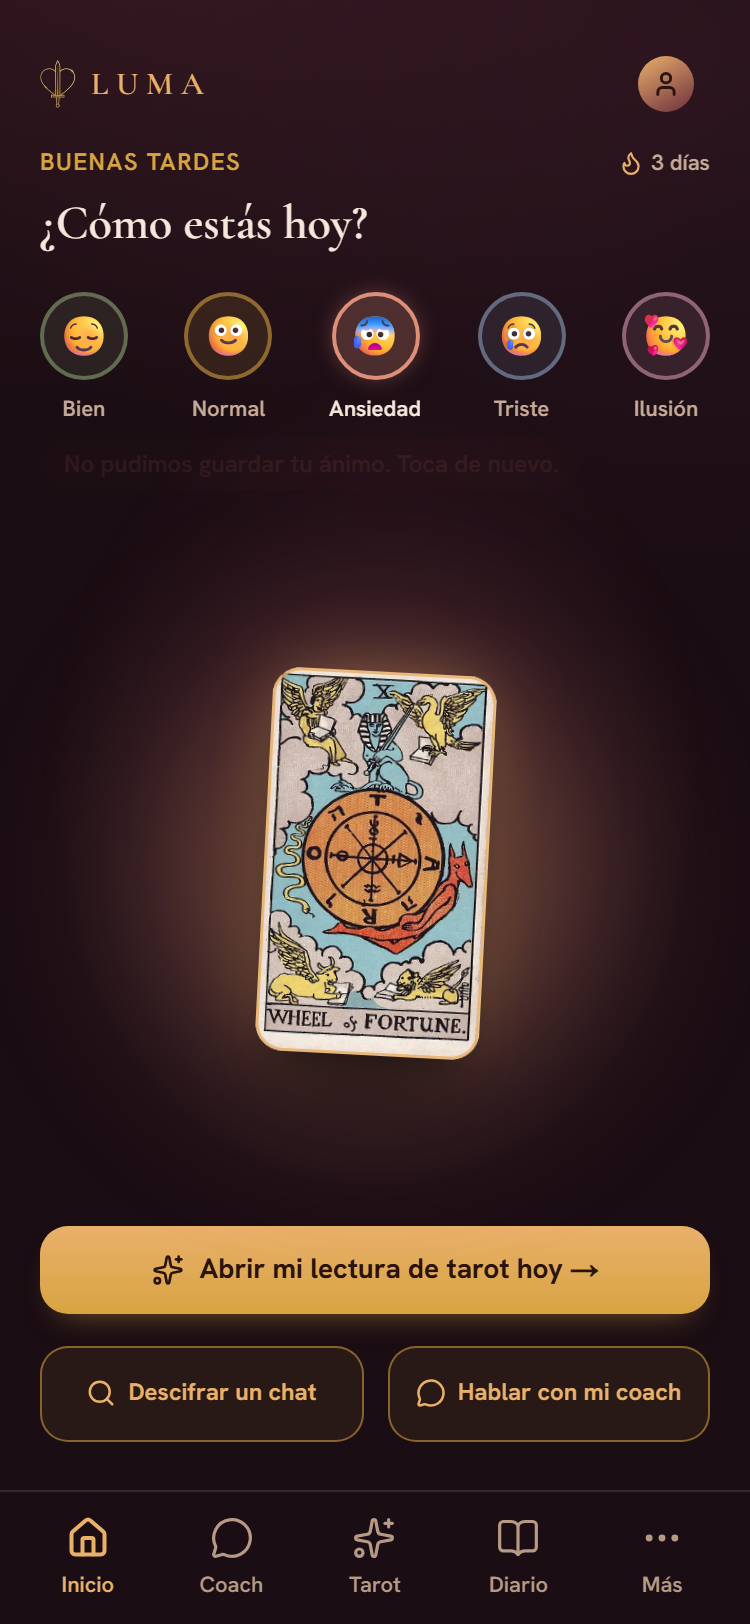
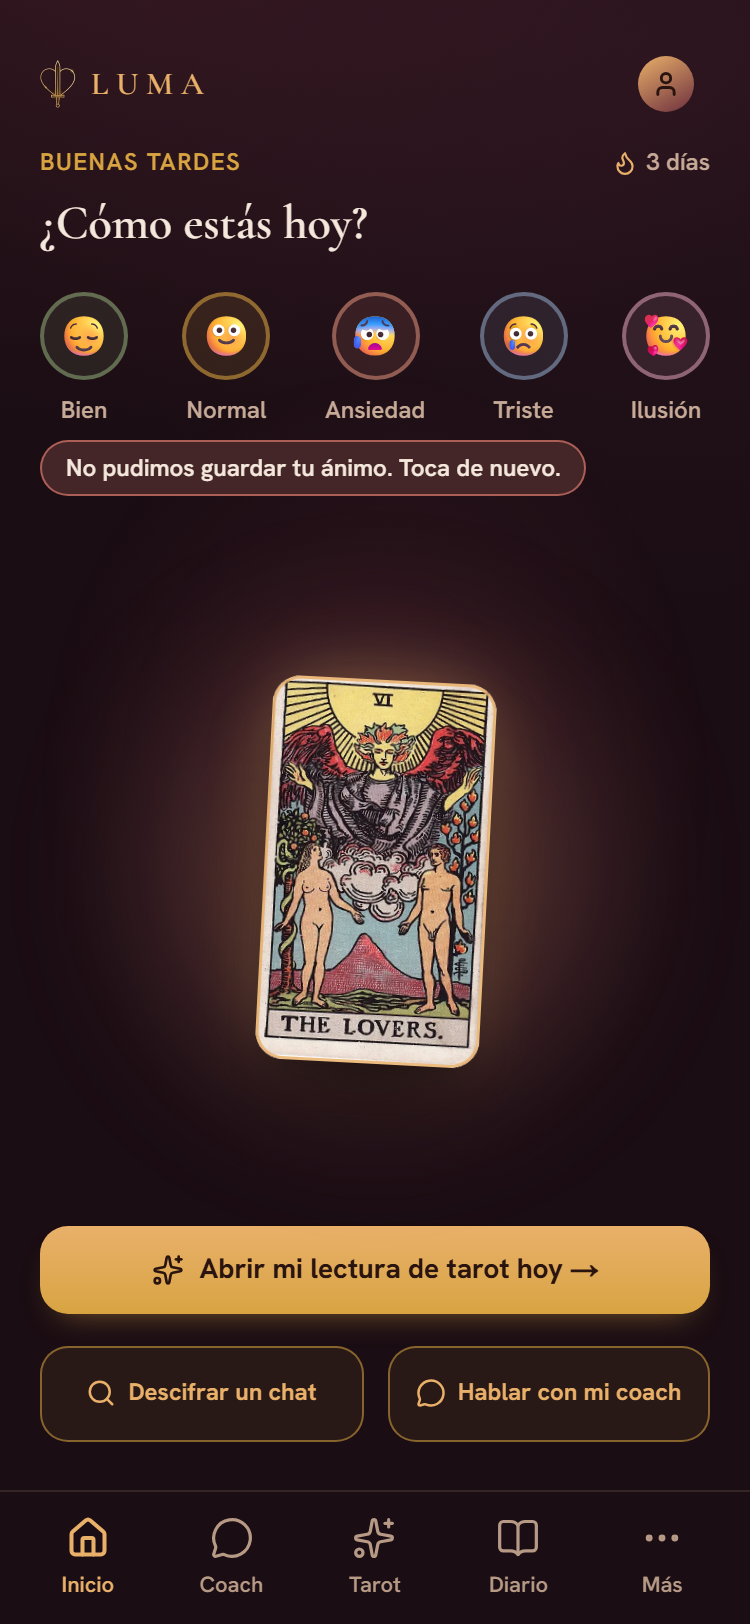
fix(inicio): sin registros duplicados al tocar el ánimo, error legible, cajita sin aspecto de botón, entrada escalonada y menos tamaños de letra

diff --git a/app/app/(tabs)/page.tsx b/app/app/(tabs)/page.tsx
@@ -22,11 +22,19 @@ const VENTANA_DIAS = 40;
 
 const MIN_REGISTROS = 3;
 
+// Entrada escalonada: cada bloque entra 70 ms después del anterior.
+const entrada = (i: number) => ({
+  initial: { opacity: 0, y: 8 },
+  animate: { opacity: 1, y: 0 },
+  transition: { duration: 0.3, delay: i * 0.07, ease: [0.16, 1, 0.3, 1] as const },
+});
+
 export default function InicioPage() {
   const [saludo, setSaludo] = useState('Hola');
   const [apodo, setApodo] = useState('');
   const [animo, setAnimo] = useState<string | null>(null);
-  const [aviso, setAviso] = useState<'guardado' | 'error' | null>(null);
+  const [aviso, setAviso] = useState<'guardando' | 'guardado' | 'error' | null>(null);
+  const [animoGuardado, setAnimoGuardado] = useState<string | null>(null);
   const [userId, setUserId] = useState<string | null>(null);
   const [racha, setRacha] = useState(0);
   const [termometro, setTermometro] = useState<Termometro>({ haceUnMes: null, estaSemana: null });
@@ -81,13 +89,20 @@ export default function InicioPage() {
 
   function mostrarAviso(tipo: 'guardado' | 'error') {
     setAviso(tipo);
-    window.setTimeout(() => setAviso(null), tipo === 'error' ? 3600 : 2200);
+    window.setTimeout(() => setAviso(null), tipo === 'error' ? 5000 : 2200);
   }
 
   function elegirAnimo(id: string) {
-    setAnimo(id);
     // Sin cuenta el ánimo no se guarda en ninguna parte: tampoco se dice que sí.
-    if (!userId) return;
+    if (!userId) {
+      setAnimo(id);
+      return;
+    }
+    // Mientras se guarda no se admiten más toques, y volver a tocar el mismo ánimo ya guardado no crea otro registro.
+    if (aviso === 'guardando' || id === animoGuardado) return;
+    const anterior = animoGuardado;
+    setAnimo(id);
+    setAviso('guardando');
     void (async () => {
       const supabase = crearClienteNavegador();
       let fallo = false;
@@ -98,9 +113,12 @@ export default function InicioPage() {
         fallo = true;
       }
       if (fallo) {
+        // No se guardó: la selección vuelve a lo último que sí está guardado.
+        setAnimo(anterior);
         mostrarAviso('error');
         return;
       }
+      setAnimoGuardado(id);
       mostrarAviso('guardado');
       const desde = new Date();
       desde.setDate(desde.getDate() - VENTANA_DIAS);
@@ -143,27 +161,24 @@ export default function InicioPage() {
         </Link>
       </div>
 
-      <motion.div
-        initial={{ opacity: 0, y: 8 }}
-        animate={{ opacity: 1, y: 0 }}
-        transition={{ duration: 0.3, ease: [0.16, 1, 0.3, 1] }}
+      <div
         className="flex min-h-0 flex-1 flex-col gap-8 [@media(min-height:721px)_and_(max-height:840px)]:gap-4 [@media(min-height:621px)_and_(max-height:720px)]:gap-3 [@media(max-height:620px)]:gap-2"
       >
-        <div>
+        <motion.div {...entrada(0)}>
           <div className="flex items-center justify-between">
             <p className="text-[12px] font-semibold uppercase tracking-[0.06em] text-[var(--accent)]">{apodo ? `${saludo}, ${apodo}` : saludo}</p>
             {racha >= 2 && (
-              <span className="flex items-center gap-1 text-[11px] font-semibold text-[var(--text-secondary)]">
+              <span className="flex items-center gap-1 text-[12px] font-semibold text-[var(--text-secondary)]">
                 <Flame size={13} strokeWidth={2} aria-hidden="true" className="text-[var(--accent-lite)]" />
                 {racha} días
               </span>
             )}
           </div>
-          <h1 className="mt-1 text-[24px] font-semibold text-[var(--text-primary)] [font-family:var(--font-display)]">
+          <h1 className="mt-1 text-[24px] [@media(max-height:660px)]:text-[20px] font-semibold text-[var(--text-primary)] [font-family:var(--font-display)]">
             ¿Cómo estás hoy?
           </h1>
           <div className="mt-4 [@media(max-height:620px)]:mt-2">
-            <MoodPicker emociones={EMOCIONES_INICIO} seleccion={animo} onSeleccionar={elegirAnimo} />
+            <MoodPicker emociones={EMOCIONES_INICIO} seleccion={animo} onSeleccionar={elegirAnimo} bloqueado={aviso === 'guardando'} />
           </div>
           {/* Justo debajo de los emojis: el aviso «Guardado en tu diario» y la cajita «Tu progreso» comparten el mismo hueco
               (el aviso sustituye a la cajita 2 s) para que no cambie la altura de la pantalla. La cajita es de 2 líneas: la
@@ -185,11 +200,15 @@ export default function InicioPage() {
                   exit={{ opacity: 0 }}
                   className={
                     aviso === 'error'
-                      ? 'inline-flex items-center gap-1.5 rounded-full bg-[color-mix(in_oklab,var(--an-risk)_16%,transparent)] px-3 py-1 text-[12px] font-semibold text-[var(--an-risk)]'
+                      ? 'inline-flex items-center gap-1.5 rounded-full border border-[color-mix(in_oklab,var(--an-risk)_70%,transparent)] bg-[color-mix(in_oklab,var(--an-risk)_26%,var(--bg))] px-3 py-1 text-[12px] font-semibold text-[var(--text-primary)]'
                       : 'inline-flex items-center gap-1.5 rounded-full bg-[color-mix(in_oklab,var(--accent)_16%,transparent)] px-3 py-1 text-[12px] font-semibold text-[var(--accent-lite)]'
                   }
                 >
-                  {aviso === 'error' ? 'No pudimos guardar tu ánimo. Toca de nuevo.' : '✓ Guardado en tu diario'}
+                  {aviso === 'error'
+                    ? 'No pudimos guardar tu ánimo. Toca de nuevo.'
+                    : aviso === 'guardando'
+                      ? 'Guardando…'
+                      : '✓ Guardado en tu diario'}
                 </motion.p>
               ) : (
                 hayProgreso &&
@@ -200,15 +219,15 @@ export default function InicioPage() {
                     initial={{ opacity: 0 }}
                     animate={{ opacity: 1 }}
                     exit={{ opacity: 0 }}
-                    className="rounded-[var(--radius-card)] border border-[color-mix(in_oklab,var(--accent)_28%,transparent)] bg-[var(--surface)] px-3 py-2"
+                    className="rounded-[var(--radius-card)] bg-[color-mix(in_oklab,var(--bg)_70%,black)] px-3 py-2"
                   >
-                    <p className="text-[11.5px] leading-snug text-[var(--text-secondary)]">
-                      <span className="font-semibold uppercase tracking-[0.06em] text-[var(--accent)]">Tu progreso</span> · Hace un mes
-                      marcaste ánimo bajo{' '}
+                    <p className="text-[12px] leading-snug text-[var(--text-secondary)]">
+                      <span className="font-semibold uppercase tracking-[0.06em] text-[var(--accent)]">Tu progreso</span> · Ánimo bajo hace un
+                      mes:{' '}
                       <strong className="text-[var(--text-primary)]">
                         {termometro.haceUnMes.negativos} de {termometro.haceUnMes.total} días
                       </strong>
-                      ; esta semana,{' '}
+                      ; esta semana:{' '}
                       <strong className="text-[var(--text-primary)]">
                         {termometro.estaSemana.negativos} de {termometro.estaSemana.total}
                       </strong>
@@ -222,9 +241,9 @@ export default function InicioPage() {
               )}
             </AnimatePresence>
           </div>
-        </div>
+        </motion.div>
 
-        <div className="flex min-h-0 flex-1 flex-col items-center gap-2">
+        <motion.div {...entrada(1)} className="flex min-h-0 flex-1 flex-col items-center gap-2">
           <Link
             href="/app/tarot"
             aria-label="Abrir mi lectura de tarot"
@@ -234,30 +253,30 @@ export default function InicioPage() {
           </Link>
           <Link
             href="/app/tarot"
-            className="mt-6 flex h-[48px] w-full items-center justify-center gap-2 rounded-[var(--radius-button)] bg-gradient-to-b from-[var(--accent-lite)] to-[var(--accent)] text-[14px] font-bold text-[var(--on-accent)] shadow-[0_8px_16px_-10px_color-mix(in_oklab,var(--accent)_60%,transparent)] transition-transform duration-150 [touch-action:manipulation] focus-visible:outline-none focus-visible:ring-2 focus-visible:ring-[var(--accent-lite)] focus-visible:ring-offset-2 focus-visible:ring-offset-[var(--bg)] [@media(min-height:721px)_and_(max-height:840px)]:mt-3 [@media(min-height:721px)_and_(max-height:840px)]:h-11 [@media(min-height:621px)_and_(max-height:720px)]:mt-2 [@media(min-height:621px)_and_(max-height:720px)]:h-9 [@media(min-height:621px)_and_(max-height:720px)]:text-[12.5px] [@media(max-height:620px)]:mt-1 [@media(max-height:620px)]:h-8 [@media(max-height:620px)]:text-[12px]"
+            className="mt-6 flex h-[48px] w-full items-center justify-center gap-2 rounded-[var(--radius-button)] bg-gradient-to-b from-[var(--accent-lite)] to-[var(--accent)] text-[14px] font-bold text-[var(--on-accent)] shadow-[0_8px_16px_-10px_color-mix(in_oklab,var(--accent)_60%,transparent)] transition-transform duration-150 [touch-action:manipulation] active:scale-[0.97] focus-visible:outline-none focus-visible:ring-2 focus-visible:ring-[var(--accent-lite)] focus-visible:ring-offset-2 focus-visible:ring-offset-[var(--bg)] [@media(min-height:721px)_and_(max-height:840px)]:mt-3 [@media(min-height:721px)_and_(max-height:840px)]:h-11 [@media(min-height:621px)_and_(max-height:720px)]:mt-2 [@media(min-height:621px)_and_(max-height:720px)]:h-9 [@media(min-height:621px)_and_(max-height:720px)]:text-[12.5px] [@media(max-height:620px)]:mt-1 [@media(max-height:620px)]:h-8 [@media(max-height:620px)]:text-[12px]"
           >
             <Sparkles size={16} strokeWidth={2} aria-hidden="true" />
             Abrir mi lectura de tarot hoy →
           </Link>
-        </div>
+        </motion.div>
 
-        <div className="grid shrink-0 grid-cols-2 gap-3 pb-2 [@media(max-height:620px)]:pb-0">
+        <motion.div {...entrada(2)} className="grid shrink-0 grid-cols-2 gap-3 pb-2 [@media(max-height:620px)]:pb-0">
           <Link
             href="/app/descifrar"
-            className="flex min-h-[48px] w-full items-center justify-center gap-1.5 rounded-[var(--radius-button)] border border-[color-mix(in_oklab,var(--accent)_55%,transparent)] bg-[color-mix(in_oklab,var(--accent)_8%,transparent)] px-3 py-2 text-center text-[12px] font-bold leading-snug text-[var(--accent-lite)] transition-transform duration-150 [touch-action:manipulation] focus-visible:outline-none focus-visible:ring-2 focus-visible:ring-[var(--accent-lite)] focus-visible:ring-offset-2 focus-visible:ring-offset-[var(--bg)] [@media(max-height:620px)]:min-h-9 [@media(max-height:620px)]:py-1 [@media(max-height:620px)]:text-[11px]"
+            className="flex min-h-[48px] w-full items-center justify-center gap-1.5 rounded-[var(--radius-button)] border border-[color-mix(in_oklab,var(--accent)_55%,transparent)] bg-[color-mix(in_oklab,var(--accent)_8%,transparent)] px-3 py-2 text-center text-[12px] font-bold leading-snug text-[var(--accent-lite)] transition-transform duration-150 [touch-action:manipulation] active:scale-[0.97] focus-visible:outline-none focus-visible:ring-2 focus-visible:ring-[var(--accent-lite)] focus-visible:ring-offset-2 focus-visible:ring-offset-[var(--bg)] [@media(max-height:620px)]:min-h-9 [@media(max-height:620px)]:py-1 [@media(max-height:620px)]:text-[11px]"
           >
             <Search size={15} strokeWidth={2} aria-hidden="true" />
             Descifrar un chat
           </Link>
           <Link
             href="/app/coach"
-            className="flex min-h-[48px] w-full items-center justify-center gap-1.5 rounded-[var(--radius-button)] border border-[color-mix(in_oklab,var(--accent)_55%,transparent)] bg-[color-mix(in_oklab,var(--accent)_8%,transparent)] px-3 py-2 text-center text-[12px] font-bold leading-snug text-[var(--accent-lite)] transition-transform duration-150 [touch-action:manipulation] focus-visible:outline-none focus-visible:ring-2 focus-visible:ring-[var(--accent-lite)] focus-visible:ring-offset-2 focus-visible:ring-offset-[var(--bg)] [@media(max-height:620px)]:min-h-9 [@media(max-height:620px)]:py-1 [@media(max-height:620px)]:text-[11px]"
+            className="flex min-h-[48px] w-full items-center justify-center gap-1.5 rounded-[var(--radius-button)] border border-[color-mix(in_oklab,var(--accent)_55%,transparent)] bg-[color-mix(in_oklab,var(--accent)_8%,transparent)] px-3 py-2 text-center text-[12px] font-bold leading-snug text-[var(--accent-lite)] transition-transform duration-150 [touch-action:manipulation] active:scale-[0.97] focus-visible:outline-none focus-visible:ring-2 focus-visible:ring-[var(--accent-lite)] focus-visible:ring-offset-2 focus-visible:ring-offset-[var(--bg)] [@media(max-height:620px)]:min-h-9 [@media(max-height:620px)]:py-1 [@media(max-height:620px)]:text-[11px]"
           >
             <MessageCircle size={15} strokeWidth={2} aria-hidden="true" />
             Hablar con mi coach
           </Link>
-        </div>
-      </motion.div>
+        </motion.div>
+      </div>
     </div>
   );
 }

diff --git a/components/app/MoodPicker.tsx b/components/app/MoodPicker.tsx
@@ -18,13 +18,16 @@ export function MoodPicker({
   emociones,
   seleccion,
   onSeleccionar,
+  bloqueado = false,
 }: {
   emociones: Emocion[];
   seleccion: string | null;
   onSeleccionar: (id: string) => void;
+  /** Mientras se guarda: no admite más toques (cada toque guardaría un registro nuevo). */
+  bloqueado?: boolean;
 }) {
   return (
-    <div className="flex justify-between gap-1" role="radiogroup" aria-label="¿Cómo te sientes?">
+    <div className="flex justify-between gap-1" role="radiogroup" aria-label="¿Cómo te sientes?" aria-busy={bloqueado}>
       {emociones.map((e) => {
         const sel = e.id === seleccion;
         return (
@@ -33,8 +36,9 @@ export function MoodPicker({
             type="button"
             role="radio"
             aria-checked={sel}
+            disabled={bloqueado}
             onClick={() => onSeleccionar(e.id)}
-            className={`flex flex-col items-center gap-1.5 text-[11px] font-semibold transition-colors duration-150 ${
+            className={`flex flex-col items-center gap-1.5 text-[12px] font-semibold transition-colors duration-150 disabled:cursor-wait ${
               sel ? 'text-[var(--text-primary)]' : 'text-[var(--text-secondary)]'
             }`}
           >
